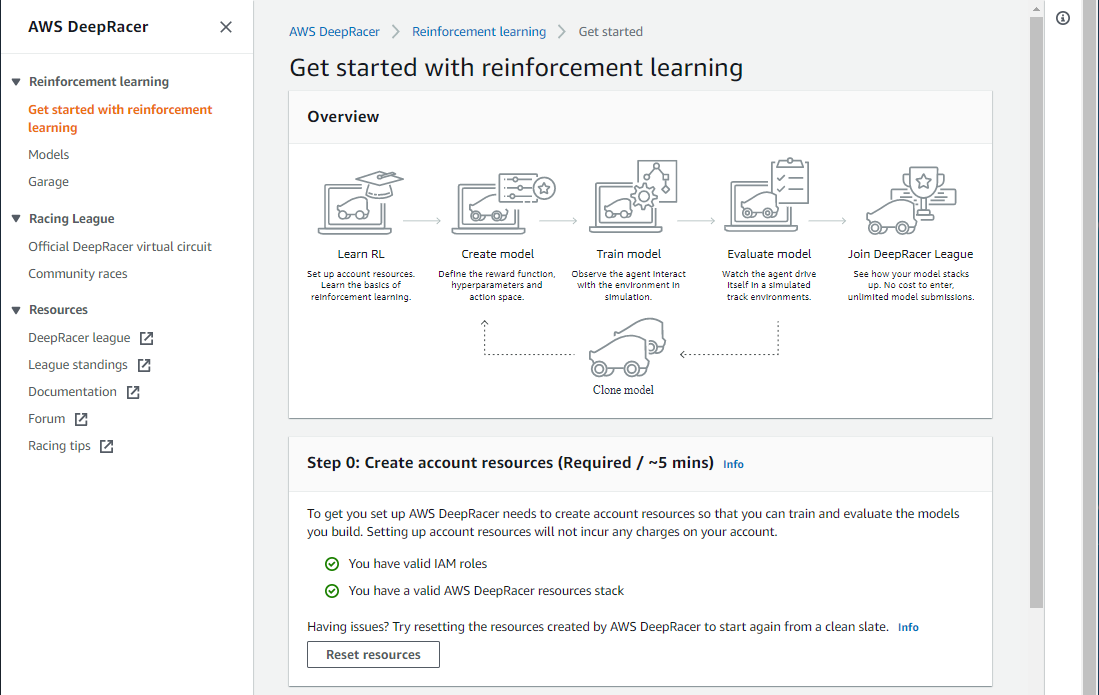
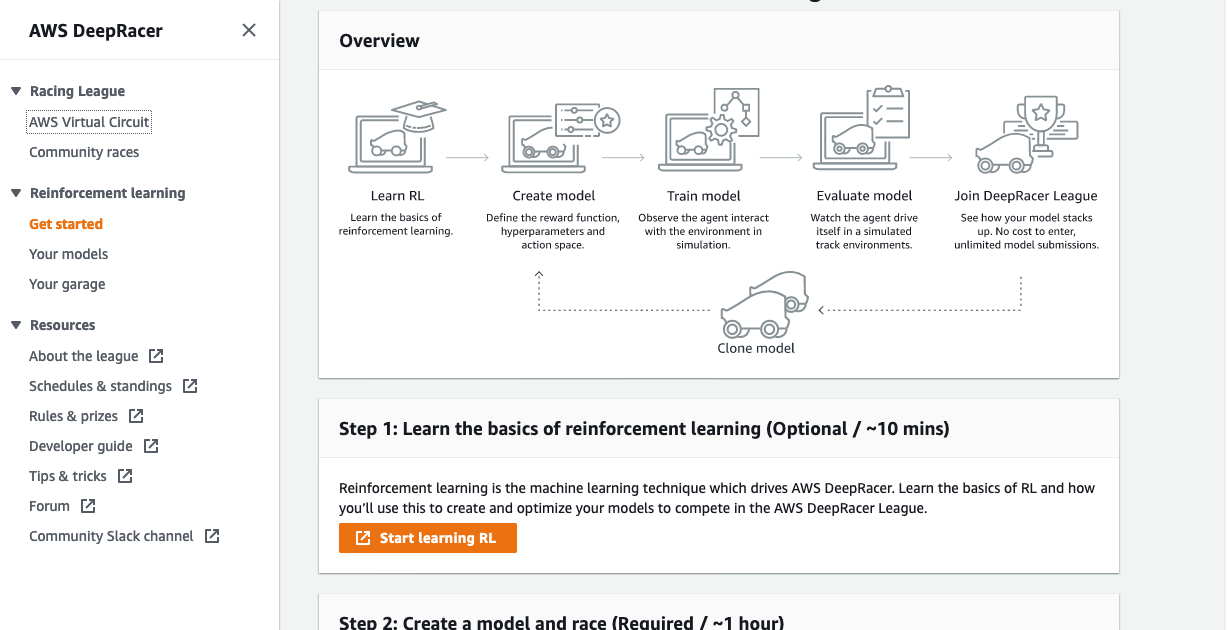
Update instruction, survey

diff --git a/README.md b/README.md
@@ -25,7 +25,8 @@ The lab is split into three sections:
 
 - [Section 1: Training your first time-trial model](#Section-1:-Training-your-first-model) 
 - [Section 2: Model training and improving your model](#Section-2:-Model-training-and-improving-your-model)
-- [Section 3: Clean Up](#Section-3:-Clean-up)
+- [Section 3: Race in the AWS DeepRacer League](#Section-3:-Race-in-the-AWS-DeepRacer-League)
+- [Section 4: Clean Up](#Section-4:-Clean-up)
 
 Goals one and two are covered in Section 1, goal three is covered in Section 2, and goal four is covered in Section 3.
 
@@ -45,11 +46,11 @@ Make sure you are in the **N. Virginia** region and navigate to [AWS DeepRacer](
 
 We can call out items in the left-hand navigation bar:
 
-- **Get started with reinforcement learning**: Get an interactive introduction to RL.
-- **Models**: View your list of models, create new models, or clone existing models.
-- **New! Garage**: You can now customize your own virtual cars by experimenting with different sensor combinations and neural network selections. This is also where you specify the action space for your car.
-- **Official DeepRacer Virtual Circuit**: Get ready for the 2020 League by training your models and racing in the pre-season races here.
-- **New! Community Races**: Create your own virtual races that you can share with friends and colleagues.
+- **Get started**: Get an interactive introduction to RL.
+- **Your Models**: View your list of models, create new models, or clone existing models.
+- **Your Garage**: You can now customize your own virtual cars by experimenting with different sensor combinations and neural network selections. This is also where you specify the action space for your car.
+- **AWS Virtual Circuit**: Get ready for the Racing League by training your models and racing in the pre-season races here.
+- **Community Races**: Create your own virtual races that you can share with friends and colleagues.
 
 Let's dive into the Garage first, as this is where we will customize the car we will use during model training. Please expand the left hand navigation bar and select **Garage**.
 
@@ -78,8 +79,7 @@ Please select **Next**.
 
 ### 2.2 Action space
 
-![Garage step 2a](img/garage_step_2a.png)
-![Garage step 2b](img/garage_step_2b.png)
+![Garage step 2](img/garage_step_2.png)
 
 In this section you get to configure the action space that your model will use during training. Once the model has been trained with a specific action space, you can't change the action space in the console as this is the last layer of the network, specifically the number of output nodes. An action is a combination of speed and steering angle. In AWS DeepRacer we are using a **discrete action** space as opposed to a continuous action space. To build this discrete action space you will specify the maximum steering angle, the steering angle granularity, the maximum speed, and the speed granularity. The action space inputs are:
 
@@ -125,27 +125,21 @@ To create your model select **Create model**.
 ## Step 4: Create model
 This page gives you the ability to create an RL model for AWS DeepRacer and start training the model. We are going to create a model that can be used by the AWS DeepRacer car to autonomously drive around a virtual race track. We need to select the specific race track we want to train on, specify the reward function that will be used to incentivize our desired driving behavior during training, configure hyperparameters, and specify our stopping conditions. 
 
-![Model Name](img/create_model_1_model_name.png)
-
-Scroll down and please select the European Seaside Circuit track from the Environment Simulation section. This is the track that you will encounter in the AWS DeepRacer League.
-
-![Model Name](img/create_model_1_model_name_b.png)
-
 ### 4.1 Model name and race track
-
 #### 4.1.1 Model name
 Please provide a name for your model e.g. MyFirstModel.
 
-#### 4.1.2 Race track
+![Model Name](img/create_model_1_model_name.png)
 
+#### 4.1.2 Race track
 
 As detailed in the workshop, training our RL model takes place on a simulated race track in our simulator, and in this section you will choose the track on which you will train your model. AWS RoboMaker is used to spin up the simulation environment.
 
 When training a model, keep the track on which you want to race in mind. Train on the track most similar to the final track you intend to race on. While this isn't required and doesn't guarantee a good model, it will maximize the odds that your model will get its best performance on the race track. Furthermore, if you train on a straight track, don't expect your model to learn how to turn.
 
-Scroll down and **please select the AWS Summit Raceway track** from the Environment Simulation section. This is the track that you will encounter in the 2020 Summit Circuit.  
+Scroll down and please select the European Seaside Circuit track from the Environment Simulation section. This is the track that you will encounter in the AWS DeepRacer League.
 
-![Model environment](img/create_model_1_environment_simulation.png)
+![Model Name](img/create_model_1_model_name_b.png)
 
 Scroll down and select **Next**.
 
@@ -506,19 +500,12 @@ Once done you should see something as follows.
 
 ![evaluation_done](img/evaluationdone.png)
 
-## 2.3: Race in the AWS DeepRacer League
+## Section 3: Race in the AWS DeepRacer League
 
-If you are happy with your model you can go race in the [Summit Circuit](https://aws.amazon.com/deepracer/summit-circuit/) or in the [Virtual Circuit](https://console.aws.amazon.com/deepracer/home?region=us-east-1#leaderboards). You can submit your trained model into the Virtual Circuit's current open race [here](https://console.aws.amazon.com/deepracer/home?region=us-east-1#leaderboards).
+## 3.1 Join the Race
+If you are happy with your model you can go race in the [AWS DeepRacer League](https://aws.amazon.com/events/aws-innovate/machine-learning/deepracer/). You can submit your trained model into the AWS DeepRacer League's current open race [here](https://console.aws.amazon.com/deepracer/home?region=us-east-1#league/arn%3Aaws%3Adeepracer%3A%3A%3Aleaderboard%2Ffcdb9ab2-5493-4a5f-950a-31859571de45).
 
-## 2.4: Create and host your own Virtual Race
-
-Navigate to [Community races](https://console.aws.amazon.com/deepracer/home?region=us-east-1#/races) in the console and **create your own virtual race**.
-
-![community races](img/communityraces.png)
-
-You can share the code with your friends and colleagues and create a league of your own!
-
-## 2.5: Iterating and improving your model
+## 3.2: Iterating and improving your model
 
 Based on the evaluation of the model you should have a good idea as to whether your model can complete the track reliably, and what the average lap time is. Note that for the Virtual Circuit races you will have to complete a certain number of laps consecutively with your model, and so focus on building a reliable model. The number of laps will be determined race by race.
 
@@ -530,22 +517,7 @@ Hints:
 - Tweak your reward function to incentivize your car to drive faster : you’ll want to specifically modify progress, steps and speed variables.
 - Clone your model to leverage training experience. Please note that you will not be able to change action space once a model is cloned, otherwise the job will fail.
 
-## 2.6: Analyze model performance by inspecting the RoboMaker logs
-If you do want to go a step further, you can evaluate the performance of each model that was trained during the training job by inspecting the log file.
-
-To download the log file from CloudWatch you can use the following code with [Amazon CLI](https://docs.aws.amazon.com/polly/latest/dg/setup-aws-cli.html).  
-
-**Download the RoboMaker log from CloudWatch**
-
-1. [Quick Analysis] Get last 10000 lines from the log
-
-	aws logs get-log-events --log-group-name  "/aws/robomaker/SimulationJobs"  --log-stream-name  "<STREAM_NAME>" --output text --region us-east-1 > deepracer-sim.log
-
-2. [Export Entire Log] Copy the log from Amazon Cloudwatch to Amazon S3. Follow the link to export all the logs to [Amazon S3](https://docs.aws.amazon.com/AmazonCloudWatch/latest/logs/S3ExportTasks.html)
-
-You can now analyze the log file using Python Pandas and see which model iterations provided the highest total reward. Furthermore, if you did add a finish bonus, you can see which model iterations were able to finish a lap. These models are good candidates to test in the simulator and in the real world.
-
-# Section 3: Clean up
+## Section 4: Clean up
 
 After you're finished with this lab, clean up your resources.
 
